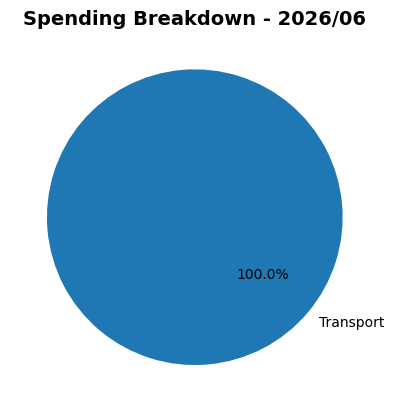
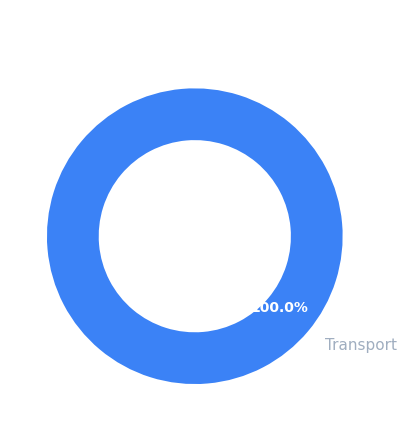
debugging

diff --git a/templates/base.html b/templates/base.html
@@ -8,16 +8,17 @@
 </head>
 <body>
 
-    {% if current_user.is_authenticated %}
-    <header style="display: flex; justify-content: space-between; align-items: center; padding: 15px 20px; background-color: var(--card-bg, #fff); border-bottom: 1px solid #eee; margin-bottom: 10px;">
-        <span style="font-size: 1.1rem; font-weight: bold; color: var(--text-color, #333);">💰 My Budget</span>
-        <span style="font-size: 0.9rem; font-weight: 600; color: #007bff; background: #e6f0ff; padding: 4px 12px; border-radius: 20px;">
-            Hi, {{ current_user.username }}
-        </span>
-    </header>
-    {% endif %}
+    <div class="app-container" style="display: flex; flex-direction: column;">
 
-    <div class="app-container">
+    {% if current_user.is_authenticated %}
+        <header style="width: 100%; display: flex; justify-content: space-between; align-items: center; padding: 15px 0px; border-bottom: 1px solid #333; margin-bottom: 20px;">
+            <span style="font-size: 1.1rem; font-weight: bold; color: #fff;">💰 My Budget</span>
+            <span style="font-size: 0.9rem; font-weight: 600; color: #007bff; background: #e6f0ff; padding: 4px 12px; border-radius: 20px;">
+                Hi, {{ current_user.username }}
+            </span>
+        </header>
+        {% endif %}
+
         {% block content %}{% endblock %}   
     </div>
 

diff --git a/static/style.css b/static/style.css
@@ -46,6 +46,7 @@ body {
     flex-direction: column;
     gap: 20px;
     padding-bottom: 80px;
+    margin: 0 auto;
 }
 
 /* ==========================================================================

diff --git a/app.py b/app.py
@@ -9,7 +9,7 @@ from flask import Flask, render_template, request, redirect
 import os
 from dotenv import load_dotenv
 from flask_login import LoginManager, current_user, login_required
-
+from models import User
 load_dotenv()
 
 app = Flask(__name__)
@@ -39,7 +39,7 @@ def home():
     month_str = datetime.today().strftime('%m')
     current_month_name = datetime.today().strftime('%B')
     
-    report_data = reports.generate_monthly_report(year_str, month_str)
+    report_data = reports.generate_monthly_report(current_user.id,year_str, month_str)
     
     # 💡 ONE MASTERS TOTAL: Pull the single 4000.00 budget directly from config
     global_budget = config.TOTAL_MONTHLY_BUDGET
@@ -63,7 +63,7 @@ def home():
 @app.route('/expenses')
 @login_required
 def view_expenses():
-    real_expenses = database.get_all_expenses()
+    real_expenses = database.get_all_expenses(current_user.id)
     return render_template('view_expenses.html', expenses=real_expenses)
 
 
@@ -116,9 +116,9 @@ def view_analytics():
         month_str = datetime.today().strftime('%m')
         selected_month = f"{year_str}-{month_str}"
 
-    pie_file = charts.generate_spending_pie_chart(year_str, month_str)
-    bar_file = charts.generate_spending_bar_chart(year_str, month_str)
-    trend_file = charts.generate_spending_trend_chart(year_str, month_str)
+    pie_file = charts.generate_spending_pie_chart(current_user.id,year_str, month_str)
+    bar_file = charts.generate_spending_bar_chart(current_user.id,year_str, month_str)
+    trend_file = charts.generate_spending_trend_chart(current_user.id,year_str, month_str)
 
     charts_dir = "static/charts"
 

diff --git a/charts.py b/charts.py
@@ -6,8 +6,8 @@ from reports import generate_monthly_report
 
 CHARTS_DIR = "static/charts"
 
-def generate_spending_pie_chart(year: str, month: str) -> str:
-    report = generate_monthly_report(year,month)
+def generate_spending_pie_chart(user_id,year: str, month: str) -> str:
+    report = generate_monthly_report(user_id,year,month)
 
     if not report or not report["category_totals"]:
         return ""
@@ -59,14 +59,14 @@ def generate_spending_pie_chart(year: str, month: str) -> str:
 
 # ... Keep your existing generate_spending_pie_chart function exactly as it is ...
 
-def generate_spending_bar_chart(year: str, month: str) -> str:
+def generate_spending_bar_chart(user_id,year: str, month: str) -> str:
     """
     Placeholder stub for budget vs actual bar chart.
     Returns an empty string until fully implemented.
     """
     return ""
 
-def generate_spending_trend_chart(year: str, month: str) -> str:
+def generate_spending_trend_chart(user_id,year: str, month: str) -> str:
     """
     Placeholder stub for daily spending trendline chart.
     Returns an empty string until fully implemented.

diff --git a/reports.py b/reports.py
@@ -1,8 +1,8 @@
 from database import get_expenses_by_month
 
-def generate_monthly_report(year: str, month: str) -> dict:
+def generate_monthly_report(user_id, year: str, month: str) -> dict:
         
-    raw_data= get_expenses_by_month(year,month)
+    raw_data= get_expenses_by_month(user_id, year,month)
 
     if not raw_data:
         return {}